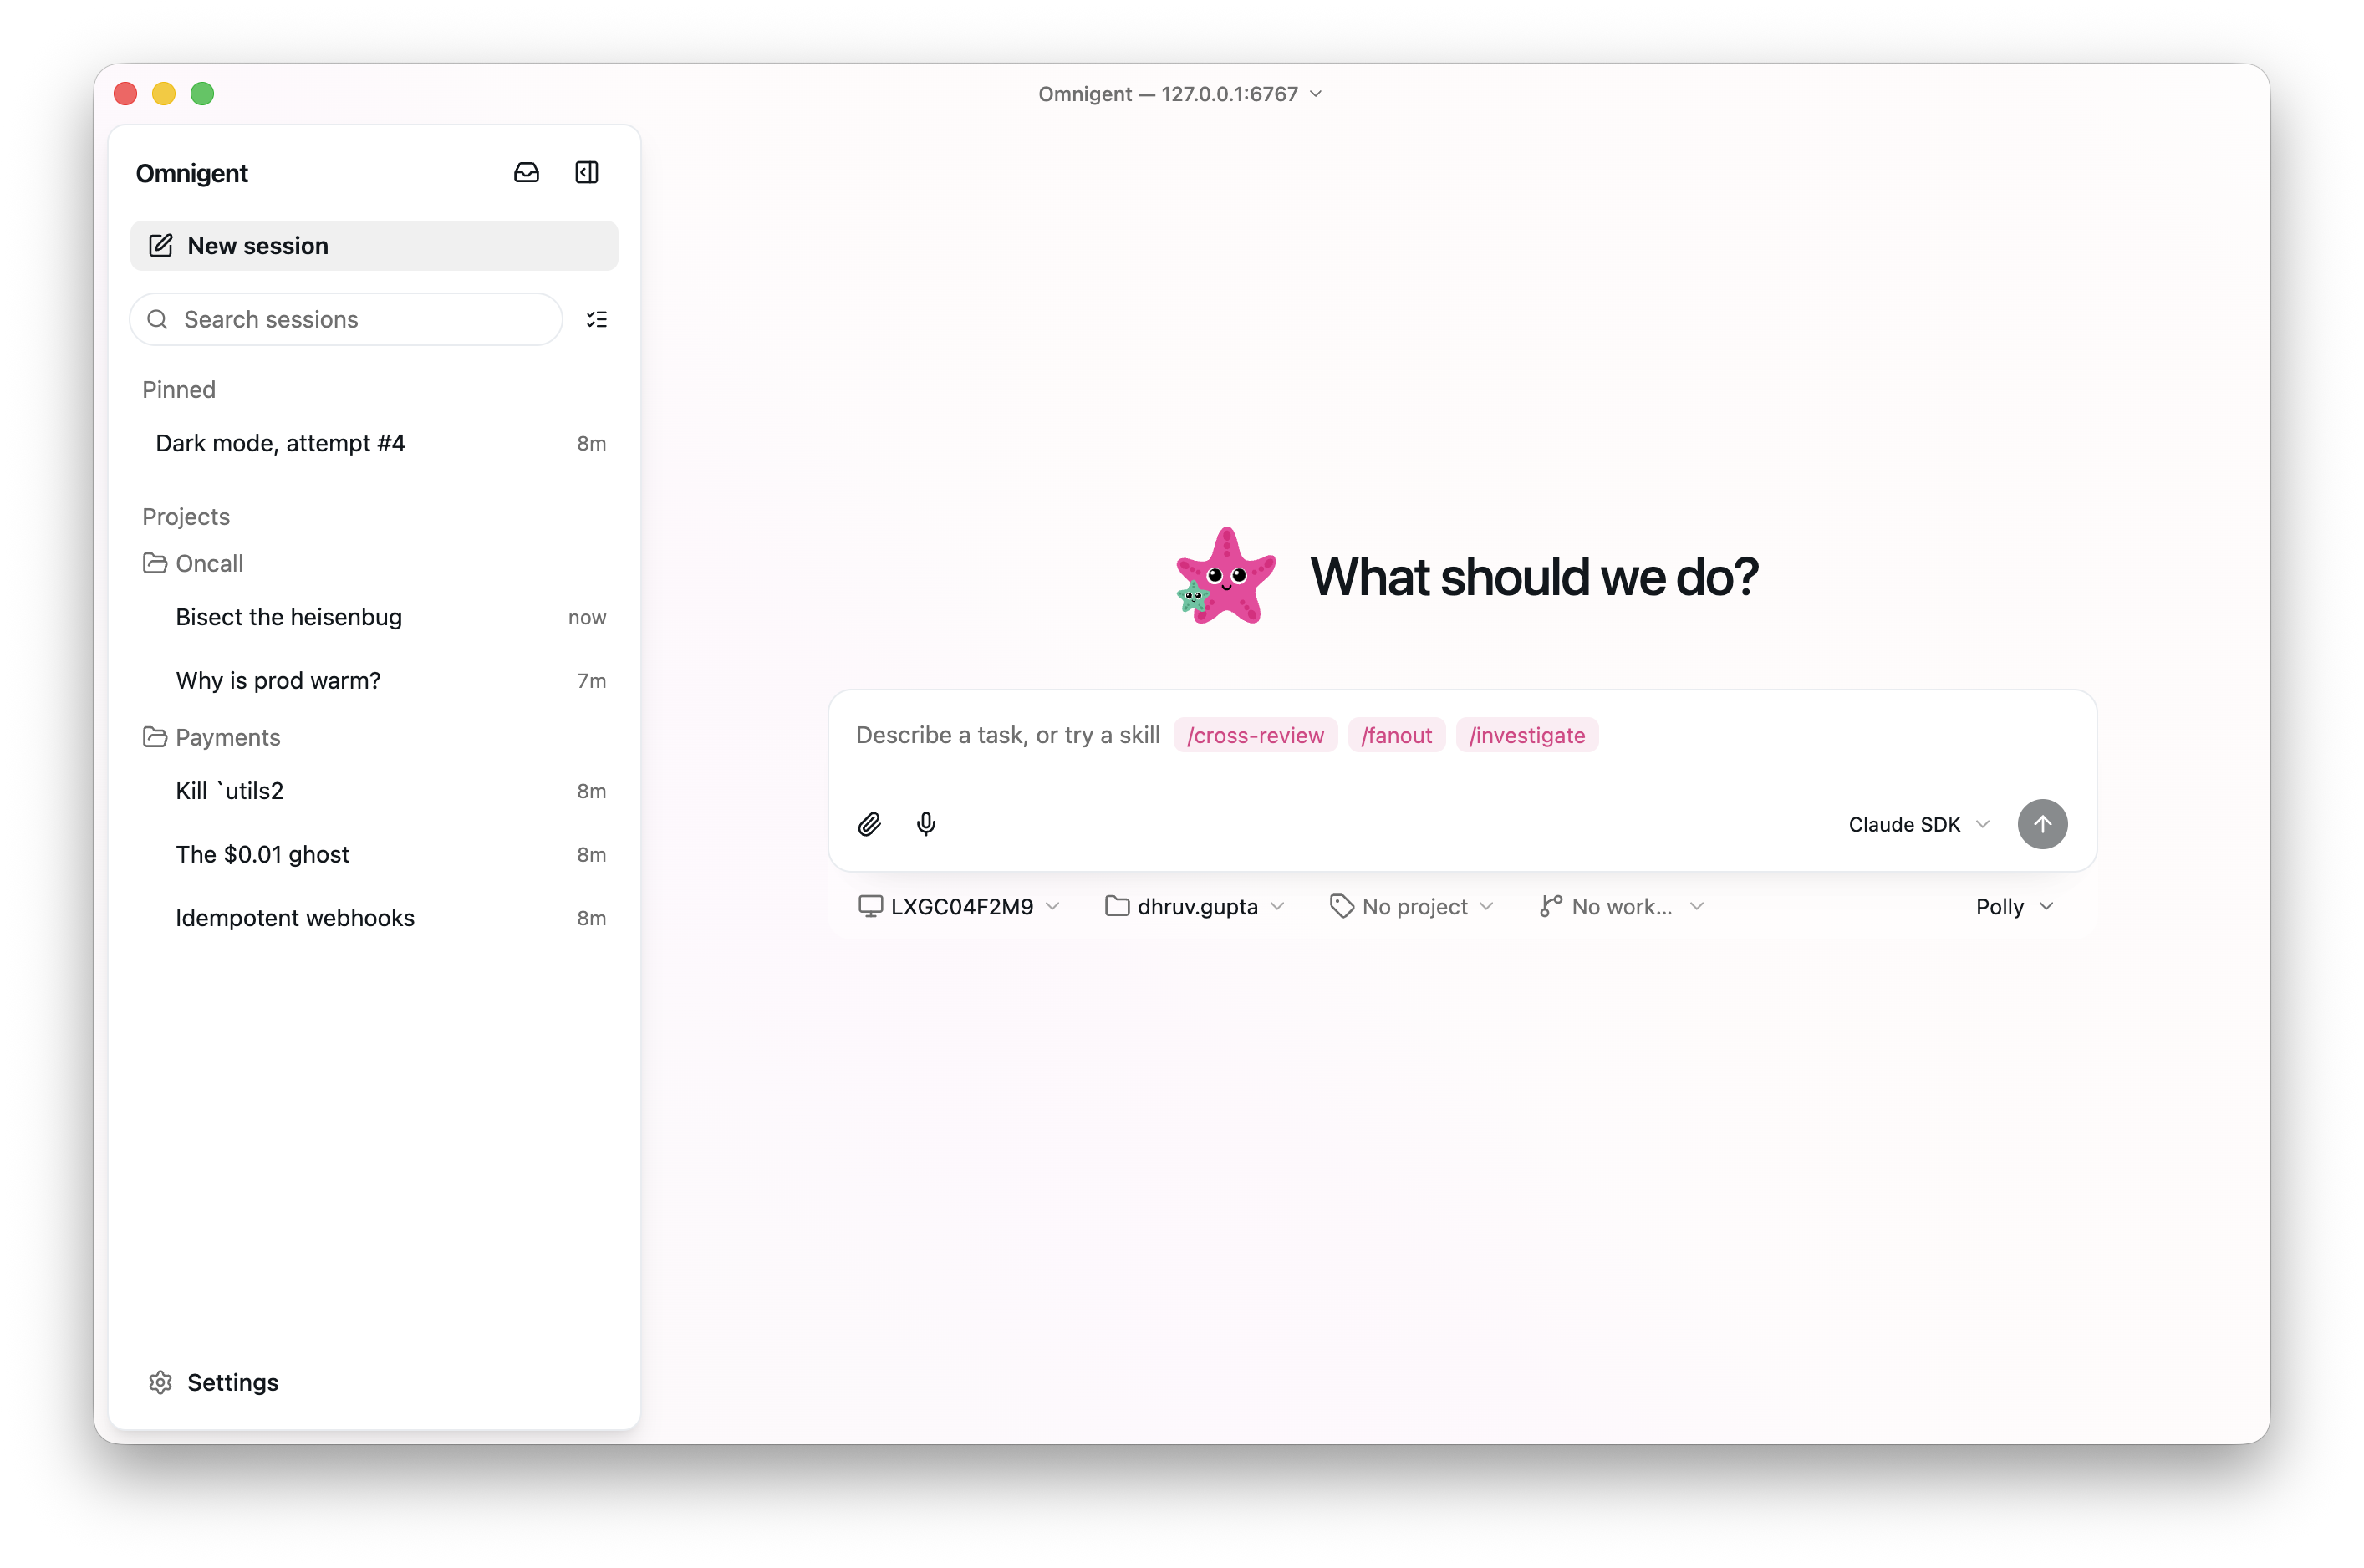
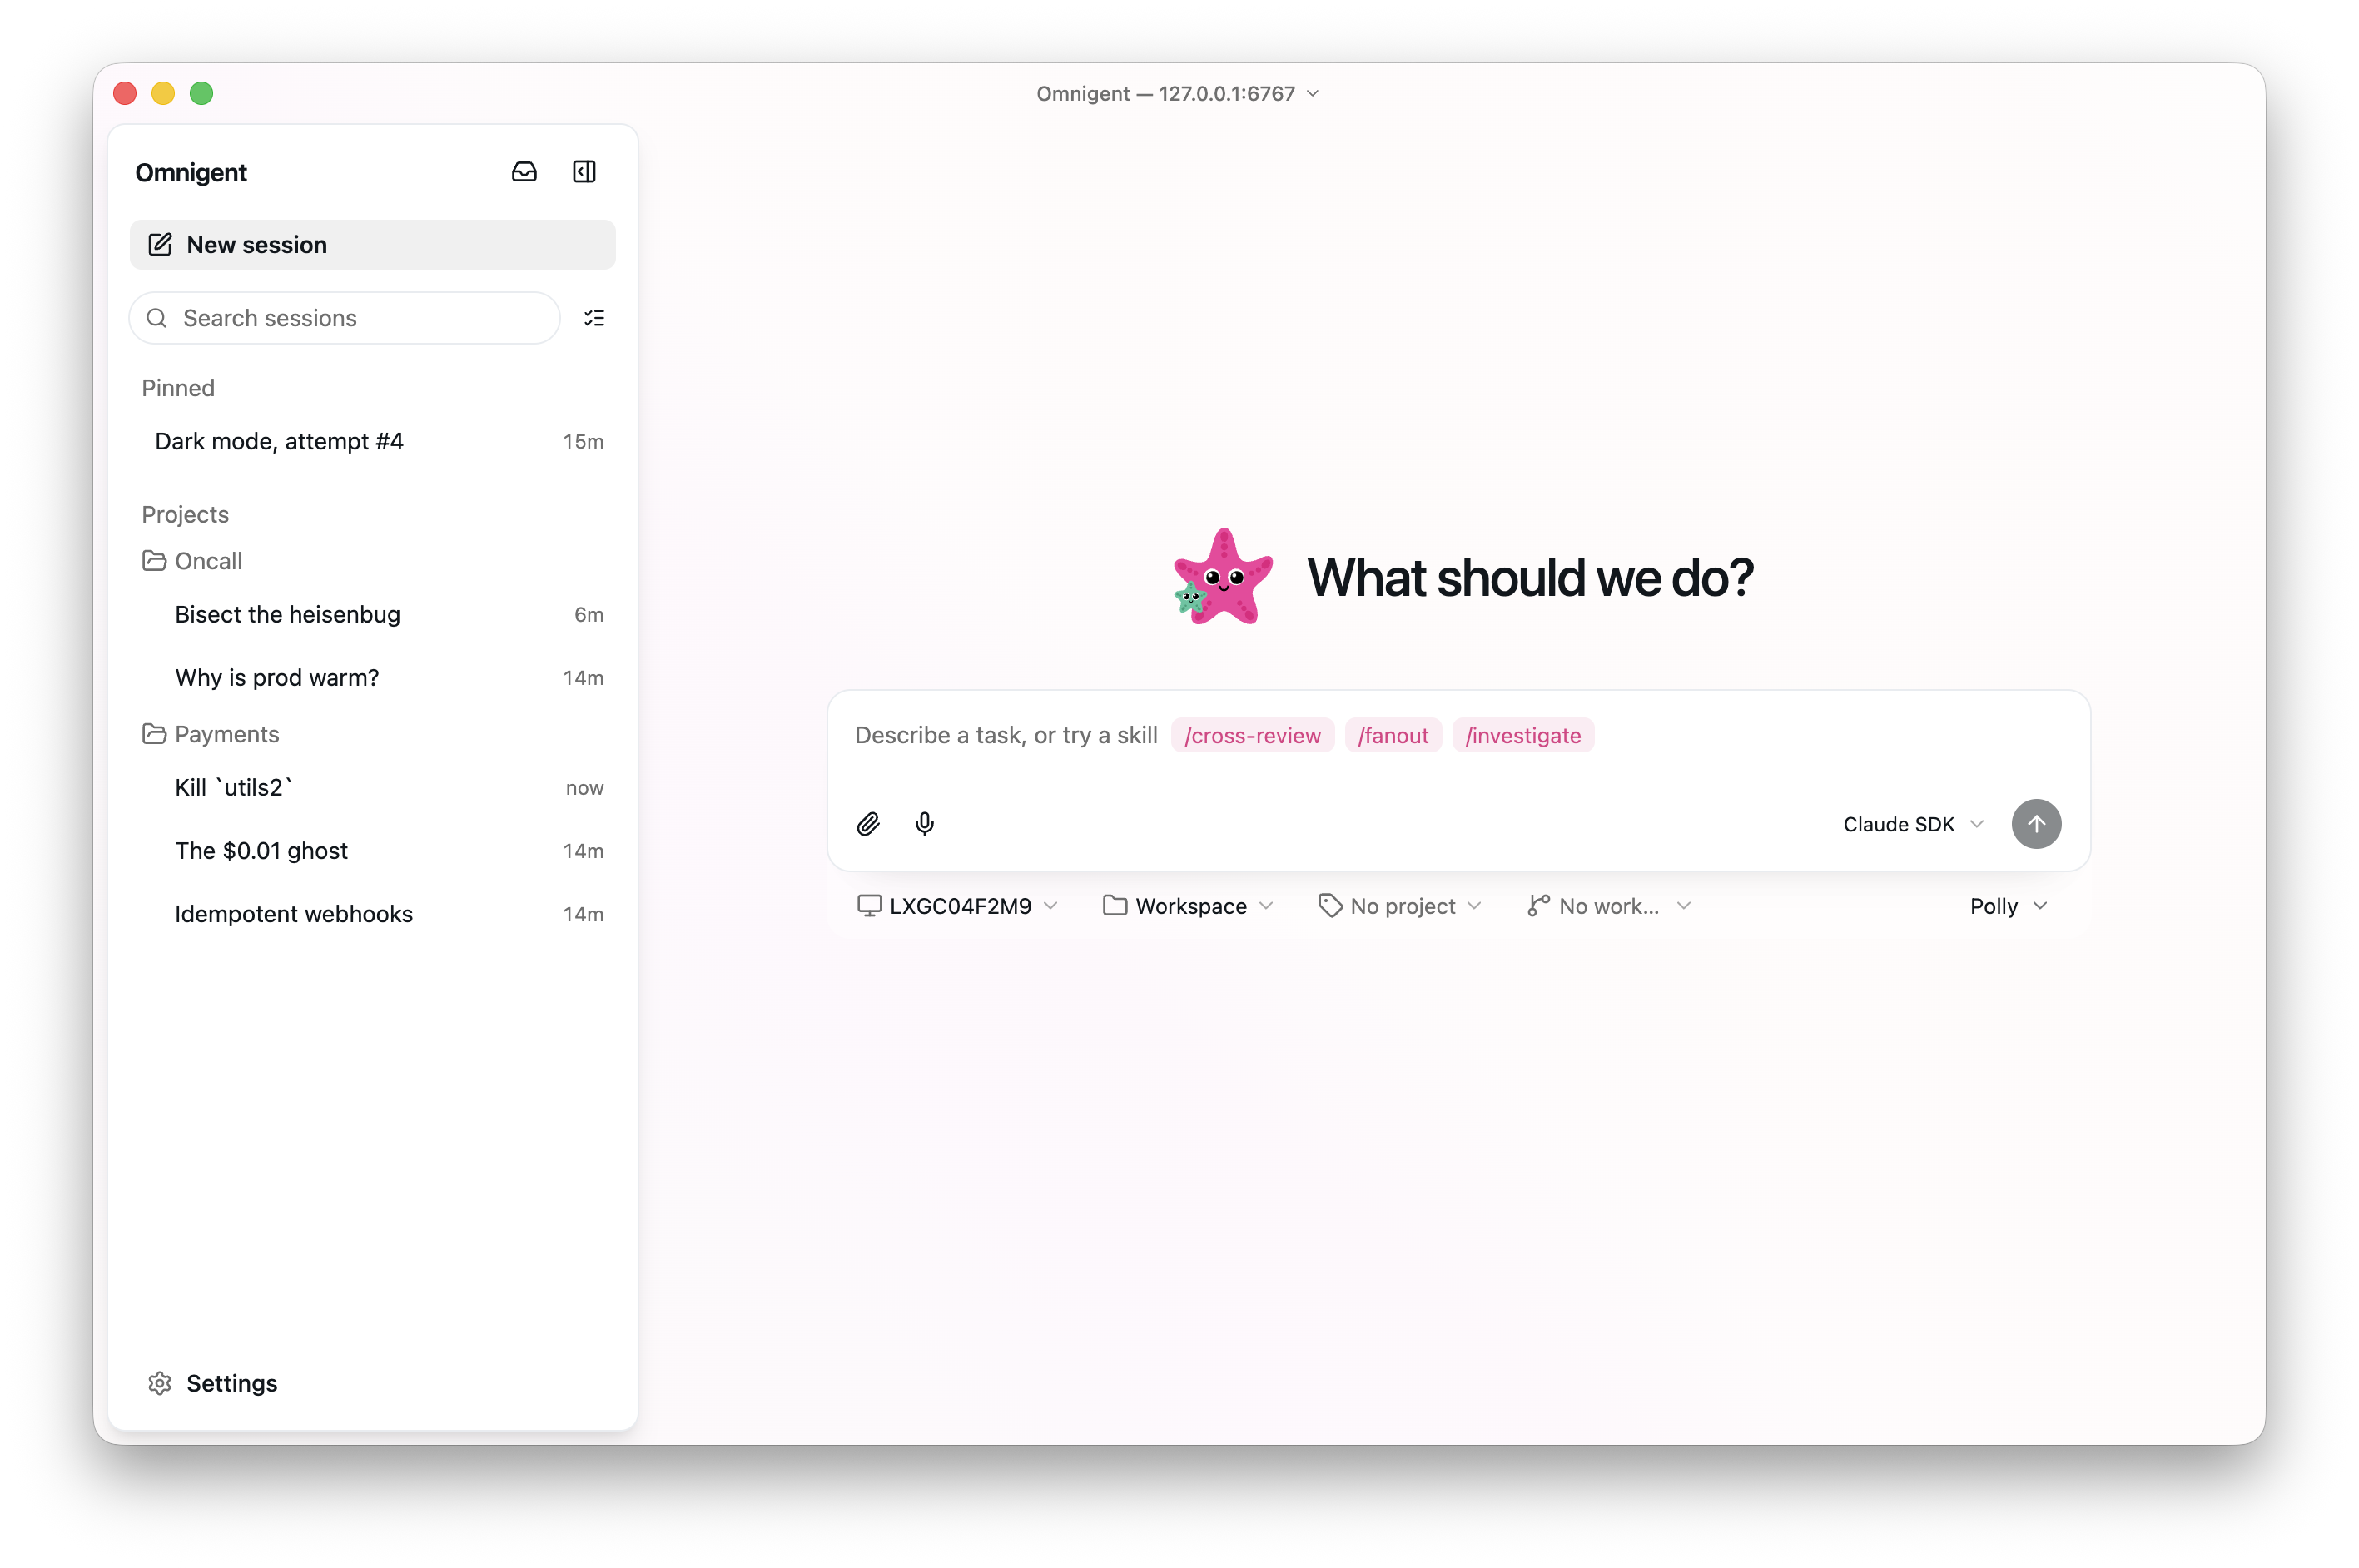
docs(readme): drop desktop-app bullet, label hermes as "Hermes Agent", refresh hero

diff --git a/README.md b/README.md
@@ -31,10 +31,6 @@ Omnigent lets you:
   follow you: start in your terminal, continue in the browser, pick it up on
   your phone. Messages, sub-agents, terminals, and files stay in sync.
 
-- **💻 Or from a native desktop app.** Prefer a dedicated window? The macOS
-  app wraps the same UI natively, with OS notifications and a dock badge.
-  **[⬇️ Download it for macOS](https://omnigent.ai/download/mac)**.
-
 - **🤖 Supervise multiple agents.** Mix Claude Code, Codex, Cursor, OpenCode,
   Hermes, Pi, and custom agents (defined in YAML) together in the same
   session. Ask one agent to review another's work, or split a task across
@@ -203,7 +199,7 @@ omnigent claude                      # Claude Code, in a session your team can j
 omnigent codex                       # Codex
 omnigent cursor                      # Cursor
 omnigent opencode                    # OpenCode
-omnigent hermes                      # Hermes (Nous Research)
+omnigent hermes                      # Hermes Agent (Nous Research)
 omnigent pi                          # Pi
 ```
 